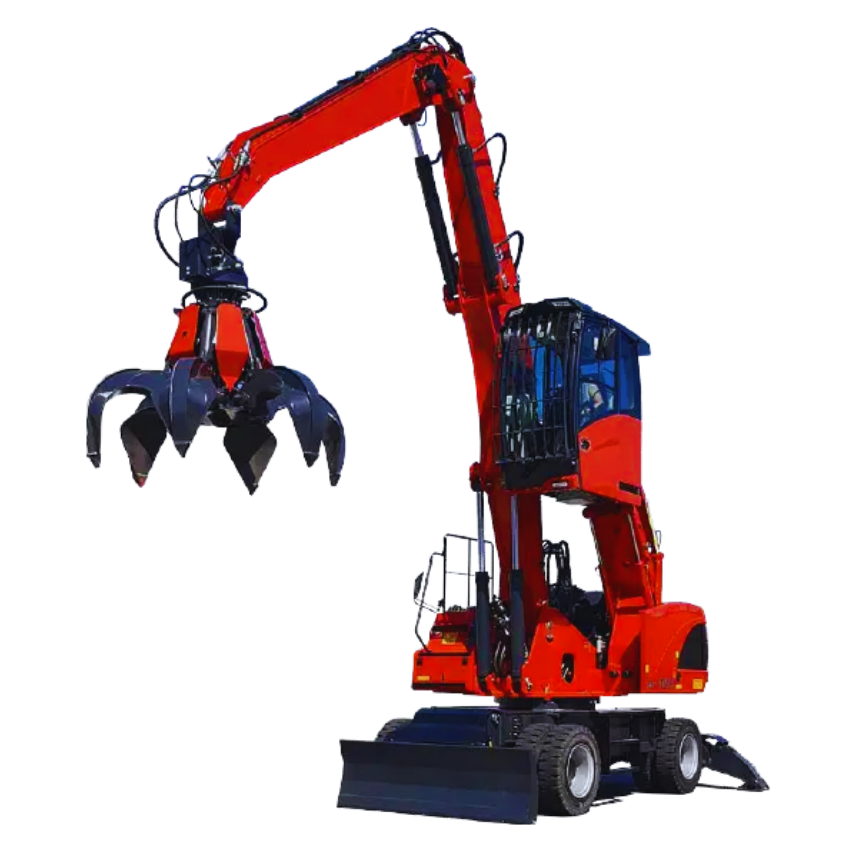
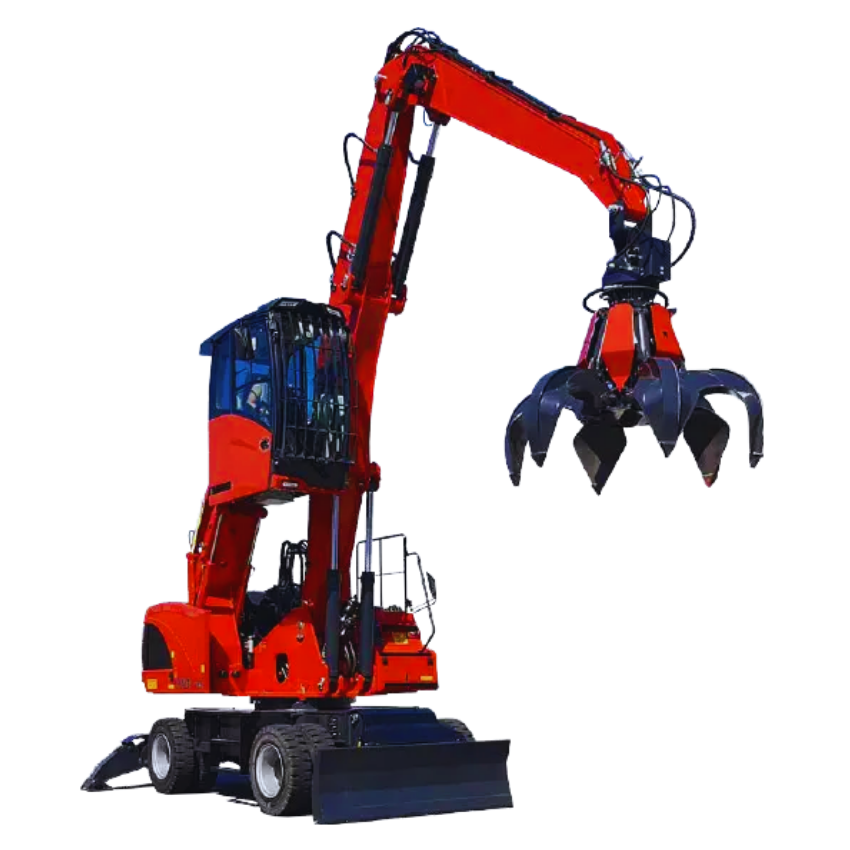
Vinç görseli aynalandı; marka tanımlayıcısı güncellendi
Görsel gerçekten tersmiş: dosyada makine sağda, kol sola uzanıyordu.
Yatay çevrildi — artık makine solda, kol sağa uzanıyor. Bu yön
kompozisyon için de doğru: kepçe hurda yığınının üstüne geliyor ve
makine metne doğru bakıyor.

Marka tanımlayıcısı "Hurda ve Metal Alım Hizmetleri" oldu.
Hero başlığı somut vaade döndü ("Hurdanızı biz indiririz, tartımı siz
izlersiniz") — saha araştırması müşterinin soyut söze değil somut
vaade tepki verdiğini gösteriyordu; kategori tanımı başlıkta dururken
vaat kayboluyordu.

Not: dev sunucusu hurda yığınını yüklemiyor, üretim derlemesinde iki
görsel de sorunsuz yükleniyor — bu bir kod hatası değil, dev
sunucusunun kararsızlığı (konsolda ERR_CONNECTION_REFUSED ve kopan
HMR bağlantıları).

diff --git a/app/page.tsx b/app/page.tsx
@@ -137,14 +137,14 @@ export default function AnaSayfa() {
             </p>
 
             <h1 className="mt-5 text-[38px] leading-[1.08] text-white sm:text-[52px]">
-              <span className="text-fistik-400">Sorumlu tartım</span>,
-              <br className="hidden sm:block" /> güvenilir hizmet
+              Hurdanızı <span className="text-fistik-400">biz indiririz</span>,
+              <br className="hidden sm:block" /> tartımı siz izlersiniz
             </h1>
 
             <p className="mt-6 max-w-prose text-lg leading-relaxed text-kurum-300">
-              Hurdanızı biz indiririz, tartımı siz izlersiniz. Kat farkı yok,
-              asansör şartı yok, indirmek için üste para istemiyoruz. Ödeme
-              teslim anında nakit.
+              Kat farkı yok, asansör şartı yok, indirmek için üste para
+              istemiyoruz. Kalibreli kantarla yerinde tartım, ödeme teslim
+              anında nakit.
             </p>
 
             <ul className="mt-8 flex flex-col">

diff --git a/lib/site.ts b/lib/site.ts
@@ -32,7 +32,7 @@ export const site = {
    * cunku saha arastirmasi musterinin soyut soze degil somut vaade
    * tepki verdigini gosterdi.
    */
-  slogan: "Sorumlu geri dönüşüm, net değerlendirme",
+  slogan: "Hurda ve Metal Alım Hizmetleri",
 
   description:
     "İstanbul genelinde yerinde hurda alımı. Bakır, alüminyum, demir, beyaz eşya ve sanayi hurdası için ücretsiz keşif, indirme dahil, tartım gözünüzün önünde.",
